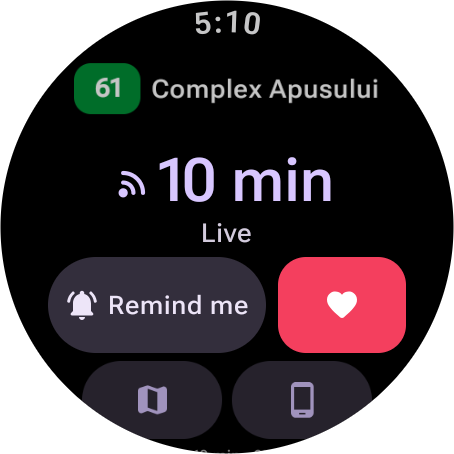
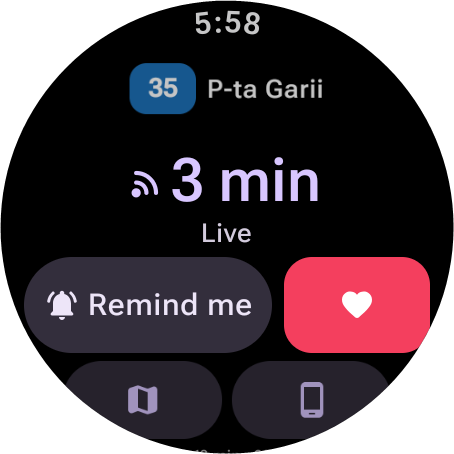
README update

diff --git a/README.md b/README.md
@@ -1,14 +1,14 @@
 # Ce autobuz iau? for Wear OS
 
-The [Ce autobuz iau?](https://github.com/bmarian/conexiuni-cluj) bus and tram tracker as a Wear OS app. The website ran in the watch browser, but it couldn't get my location and froze every time I lowered my wrist, so I built this.
+The [Ce autobuz iau?](https://github.com/bmarian/conexiuni-cluj) bus, tram and trolleybus tracker as a Wear OS app.
 
 **Join the beta:** [join the testers group](https://groups.google.com/g/ce-autobuz-iau-beta), then install “Ce autobuz iau?” from Google Play on your watch. Needs Wear OS 2 or newer.
 
 <p align="center">
-  <img src="readme/home.png" width="180" alt="Favorite metro stations in București">
-  <img src="readme/stop.png" width="180" alt="A metro station with its next departure">
-  <img src="readme/departure.png" width="180" alt="One departure, with the buttons to follow it and save the line">
-  <img src="readme/route-map.png" width="180" alt="A line on the map with the next arrival above each stop">
+  <img src="readme/home.png" width="180" alt="Favorite stops on the watch, the one by the dorm first">
+  <img src="readme/stop.png" width="180" alt="The stop by the dorm, with the 35 live in 3 minutes">
+  <img src="readme/departure.png" width="180" alt="One departure, with the buttons to get a reminder and save the line">
+  <img src="readme/route-map.png" width="180" alt="Line 35 on the map with the next arrival above each stop">
 </p>
 
 ## What it does
@@ -16,21 +16,22 @@ The [Ce autobuz iau?](https://github.com/bmarian/conexiuni-cluj) bus and tram tr
 - Uses the city picked on the phone
 - Favorite stops on the first screen
 - Search for a stop or a line by voice or keyboard
-- Departures for any stop. Tracked buses get a live countdown, the rest show the timetable
-- Stations with a metro, tram, trolleybus or bus icon
-- Follow a bus. The countdown stays on the watch face and it buzzes when the bus is close
+- Departures for any stop. Tracked buses get a live countdown, the rest show approximate times
+- Follow a bus, the countdown stays on the watch face, and it buzzes when the bus is close
+- Reminders for the next bus, with the walk worked out by the phone
 - Lines on the map with the next arrival at each stop, and their timetables
-- The stops around you, as a list or on a map
+- The surrounding stops, as a list or on a map
 - A tile and a watch face complication with the next bus
 - Turn the bezel to scroll and zoom
 - Works on its own over Wi-Fi or LTE
-- Works with the [Android app](https://github.com/bmarian/conexiuni-cluj-mobile): followed buses, trips, reminders and favorites show on both
-- Copy your favorites from the website by scanning a code
+- Works with the [Android app](https://github.com/bmarian/conexiuni-cluj-mobile), followed buses, trips, reminders and favorites show on both
+- Copy your favorites from the website by scanning a QR
 
 <p align="center">
-  <img src="readme/ambient.png" width="180" alt="A followed bus in always-on mode">
-  <img src="readme/timetable.png" width="180" alt="A line's timetable from the current hour on">
+  <img src="readme/timetable.png" width="180" alt="Line 35's timetable from the current hour on">
 </p>
+
+The cities and where their data comes from are listed in the [website's README](https://github.com/bmarian/conexiuni-cluj#cities).
 
 ---
 
@@ -46,11 +47,23 @@ You'll need Android Studio with the Android SDK, and a Wear OS emulator or a wat
 ./gradlew testDebugUnitTest
 ```
 
-**The release build** is much faster on a watch than the debug one. Without a key it's signed with the debug key, so it still installs.
+The release build is much faster on a watch than the debug one. Without a key it's signed with the debug key, so it still installs.
 
-**The logic** is the website's, ported to Kotlin in [`logic/`](app/src/main/java/online/bmarian/bus/logic). [`ParityTest`](app/src/test/java/online/bmarian/bus/ParityTest.kt) runs both on the same real data and fails if a single minute differs.
+<details>
+<summary><b>Parity with the website</b></summary>
 
-**Releasing** needs a `keystore.properties` next to this README, with the same key as the Android app. Git ignores it.
+<br>
+
+The timetable and departure logic is the website's, ported to Kotlin in [`logic/`](app/src/main/java/online/bmarian/bus/logic). [`ParityTest`](app/src/test/java/online/bmarian/bus/ParityTest.kt) runs both on the same real data and fails if a single minute differs.
+
+</details>
+
+<details>
+<summary><b>Releasing</b></summary>
+
+<br>
+
+Releasing needs a `keystore.properties` next to this README, with the same key as the Android app. Git ignores it.
 
 ```properties
 storeFile=../keys/upload.jks
@@ -59,17 +72,15 @@ keyAlias=upload
 keyPassword=...
 ```
 
-Watch version codes are 2xxxx and the phone's 1xxxx. `./gradlew bundleRelease` builds the bundle, which goes on the Android app's Google Play listing.
+Watch version codes are 2xxxx and the phone's 1xxxx. `./gradlew bundleRelease` builds the bundle, which goes on the Android app's Google Play listing. Release builds need NDK 28.2.13676358, which ships MapLibre's debug symbols with the bundle.
+
+</details>
 
 ## Credits
 
-| Source                                                                             | Used for                                                                  |
-| ---------------------------------------------------------------------------------- | ------------------------------------------------------------------------- |
-| [Tranzy.ai](https://tranzy.ai/)                                                    | Live positions, lines and stops for Cluj-Napoca, Iași, Oradea and Constanța |
-| [CTP Cluj-Napoca](https://ctpcj.ro/)                                               | Cluj-Napoca's timetables                                                  |
-| [gtfs.ro](https://gtfs.ro/)                                                        | Timetables for Iași, Oradea and Constanța                                 |
-| [TPBI](https://tpbi.ro/)                                                           | Lines, timetables and live positions for București                        |
-| [OpenStreetMap](https://www.openstreetmap.org/) contributors                       | Map data                                                                  |
-| [OpenFreeMap](https://openfreemap.org/), [OpenMapTiles](https://openmaptiles.org/) | Map tiles                                                                 |
-| [MapLibre](https://maplibre.org/)                                                  | The map                                                                   |
-| [ZXing](https://github.com/zxing/zxing)                                            | QR codes                                                                  |
+| Source                                                                             | Used for  |
+| ---------------------------------------------------------------------------------- | --------- |
+| [OpenStreetMap](https://www.openstreetmap.org/copyright) contributors              | Map data  |
+| [OpenFreeMap](https://openfreemap.org/), [OpenMapTiles](https://openmaptiles.org/) | Map tiles |
+| [MapLibre](https://maplibre.org/)                                                  | The map   |
+| [ZXing](https://github.com/zxing/zxing)                                            | QR codes  |
